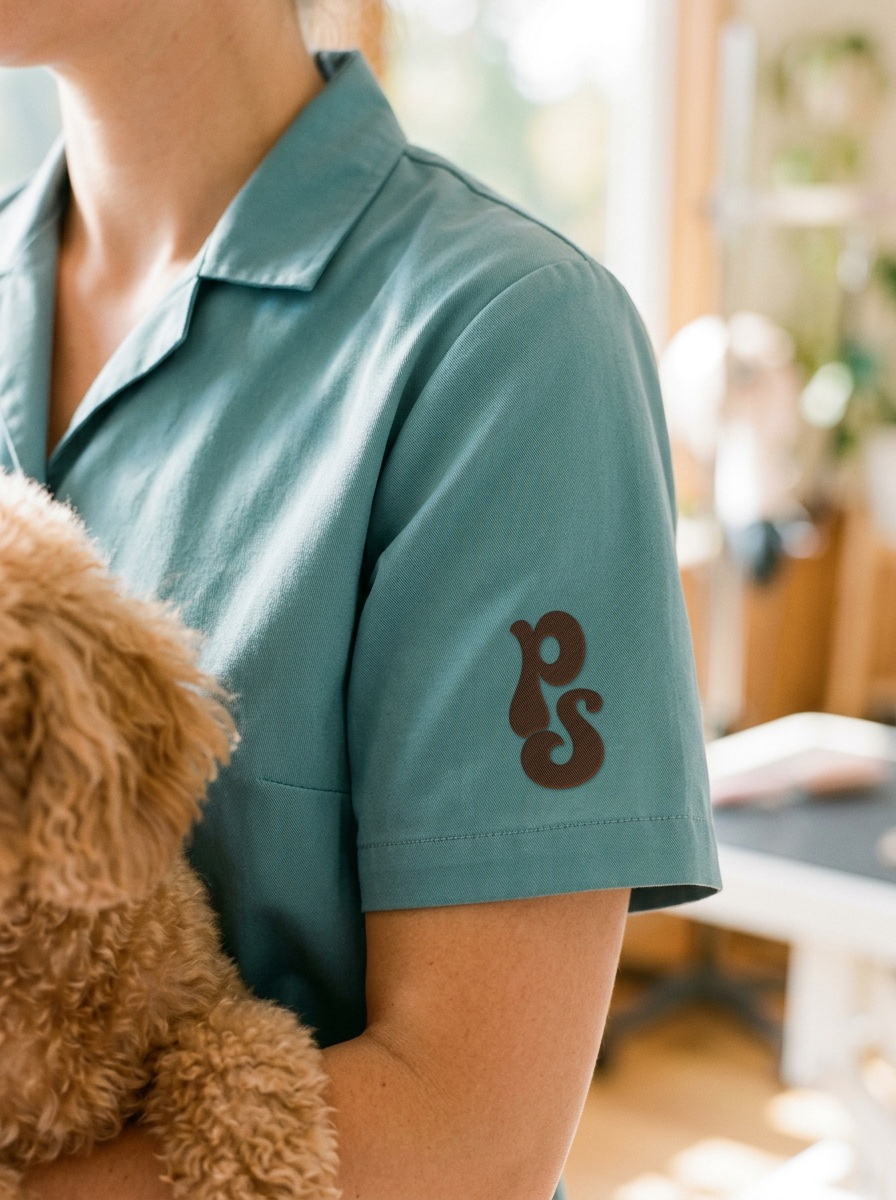
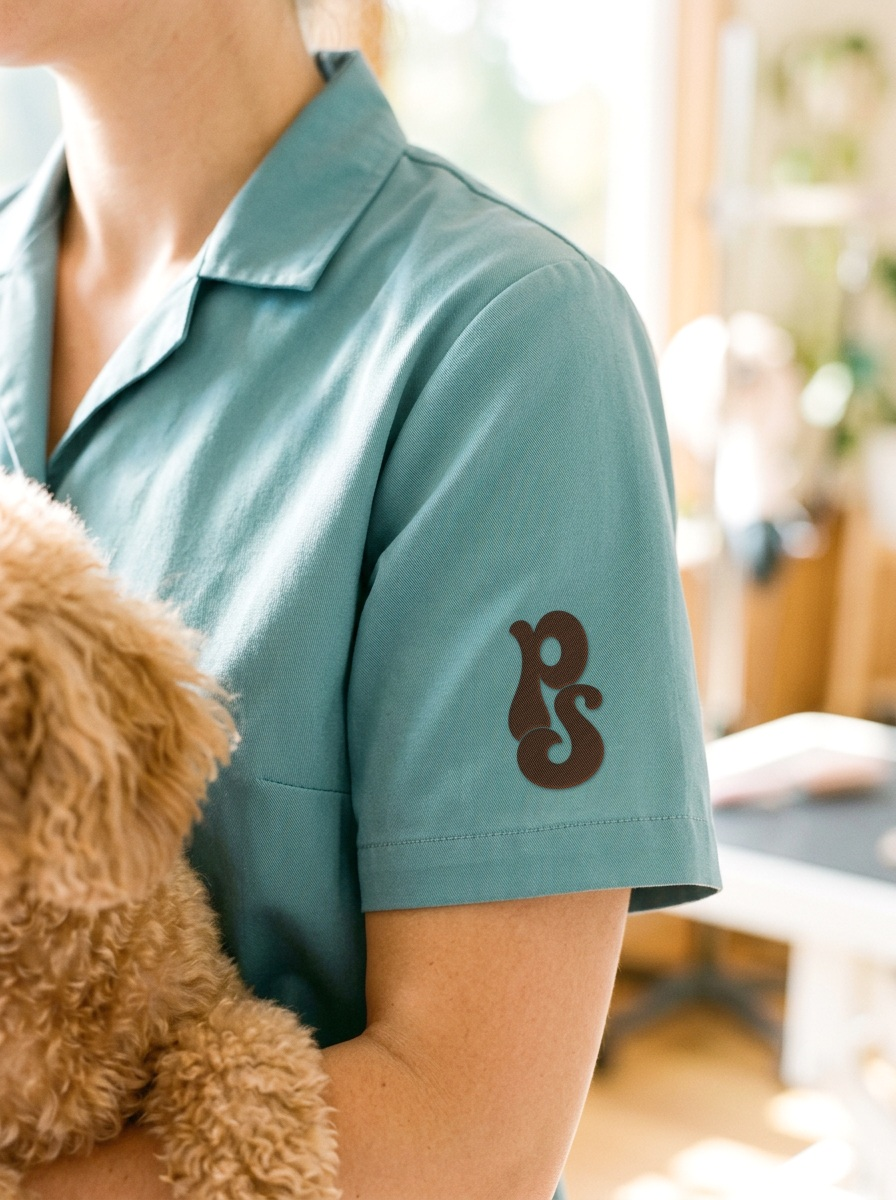
EMS: pelo solto, ps mais sobreposto e foto da manga mais clara
A Emi achou a foto escura e pediu o ps mais junto. O s sobe mais
(ps.py, folga -30) e encosta na barriga do p, sempre com o filete; a
versão anterior fica em ps-sobreposto-v1.svg. A foto ganha meio ponto de
exposição em linear, com as altas suavizadas (base-manga-clara.png).

Claude-Session: https://claude.ai/code/session_01CmCiK9WG5RWJH1hBNUU9U9

diff --git a/Emi/ems-5-direcoes-pet/projeto/marcas/pelo-solto/ps.html b/Emi/ems-5-direcoes-pet/projeto/marcas/pelo-solto/ps.html
@@ -1,7 +1,7 @@
 <!doctype html>
 <!-- pelo solto · versões para estampar ("uma versão PS pra estampar algumas coisas").
      A Emi vai usar os dois (o logo completo e o ps) e pediu o ps "mais junto"; o selo ela não gostou.
-     ?ps=encaixado (o "s" sobe até 8 px do "p") | ?ps=sobreposto (o "s" entra no pé do "p", com um filete na cor do fundo)
+     ?ps=encaixado (o "s" sobe até 8 px do "p") | ?ps=sobreposto (o "s" entra no pé e encosta na barriga do "p", com um filete na cor do fundo; "mais sobreposto", ps.py folga -30)
      ?tipo=mono → só o monograma "ps" (o "p" e o "s" do próprio logo; ps.py gera os .svg);
      ?tipo=selo → selo redondo: o "ps" no centro e PELO SOLTO · BANHO & TOSA · em volta, em Poppins Light espaçada,
                   distribuído exatamente na volta (textLength = circunferência). Bom para bordado na manga e etiqueta.
@@ -23,7 +23,7 @@ const fundo = q.get('fundo') || '#FDF6E5', tinta = q.get('tinta') || '#5A2E17', 
 st.setProperty('--fundo', fundo);
 const pc = document.querySelector('.palco'); pc.style.width = W + 'px'; pc.style.height = H + 'px';
 const s = document.getElementById('s'); s.setAttribute('width', W); s.setAttribute('height', H);
-const arq = q.get('ps') || 'sobreposto'   // a Emi escolheu o B (sobreposto), TAM = { encaixado: [195, 402.25], sobreposto: [203, 382.75] }[arq];
+const arq = q.get('ps') || 'sobreposto'   // a Emi escolheu o B (sobreposto), TAM = { encaixado: [195, 402.25], sobreposto: [197.00, 366.75] }[arq];
 st.setProperty('--arq', `url(ps-${arq}.svg)`);
 const ps = document.querySelector('.ps'), PSW = TAM[0], PSH = TAM[1];
 if (tipo === 'mono') {

diff --git a/Emi/ems-5-direcoes-pet/projeto/marcas/pelo-solto/mockup/borda.py b/Emi/ems-5-direcoes-pet/projeto/marcas/pelo-solto/mockup/borda.py
@@ -7,7 +7,7 @@ from PIL import Image
 mask_p, saida = sys.argv[1], sys.argv[2]
 cx, cy, alt, giro = [float(v) for v in (sys.argv[3:7] if len(sys.argv) > 6 else (548, 668, 215, -4))]
 cor = sys.argv[7] if len(sys.argv) > 7 else '#5A2E17'
-foto = np.asarray(Image.open('base-manga.png').convert('RGB')).astype(np.float32) / 255
+foto = np.asarray(Image.open(sys.argv[8] if len(sys.argv) > 8 else 'base-manga-clara.png').convert('RGB')).astype(np.float32) / 255
 H, W = foto.shape[:2]
 # máscara do ps (preto no branco), recortada e escalada para 'alt' px × K (supersampling)
 K = 4
